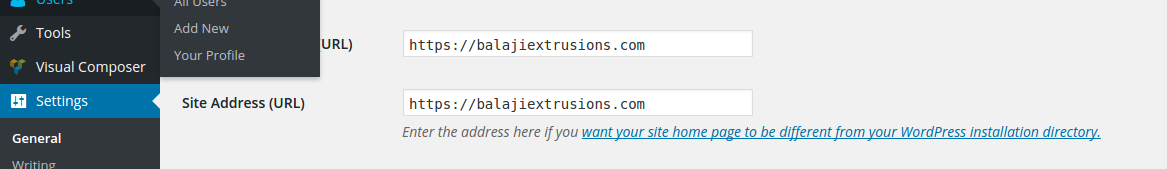
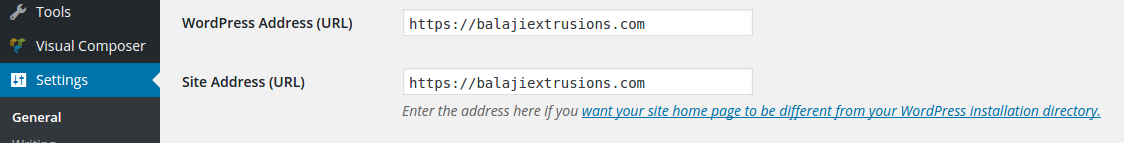
Typography, Image and Grammar changes for Wordpress https blog

diff --git a/_sass/typography.scss b/_sass/typography.scss
@@ -129,7 +129,7 @@ tt, code, kbd, samp, pre {
 p,
 li { 
 	code {
-		@include font-rem(16);
+		@include font-rem(14);
 		line-height: 1.5;
 		white-space: nowrap;
 		margin: 0 2px;
@@ -140,7 +140,7 @@ li {
 	}
 }
 pre {
-	@include font-rem(16);
+	@include font-rem(14);
 	line-height: 1.5;
 	overflow-x: auto;
 }

diff --git a/_posts/blog/2016-01-25-letsencrypt-gcloud-wordpress.md b/_posts/blog/2016-01-25-letsencrypt-gcloud-wordpress.md
@@ -14,6 +14,8 @@ All the paths below are based on assumption that you've used one-click-install G
  
 # Installation
 
+Login to your Compute instance using SSH
+
 Change to super user  
 `$ sudo su`
 
@@ -84,12 +86,12 @@ Add the lines from `DocumentRoot` until `</Directory>` at appropriate position
                     </Directory>
 
 
-# Redirect all http to https
+# Redirect all http links to https
 
 Open default-ssl.conf file  
 `sudo nano /etc/apache2/sites-available/default-ssl.conf`
 
-Add new VirtualHost tag as below, after existing VirtualHost tag and  
+Add new VirtualHost tag as below, after existing VirtualHost tag and before </IfModule> 
 
             </VirtualHost>
             <VirtualHost *:80>
@@ -100,13 +102,13 @@ Add new VirtualHost tag as below, after existing VirtualHost tag and
 
 # Wordpress configuration
 
-Ensure all Wordpress permalinks in follow https by changing URL in Wordpress Admin -> Settings -> General
+Ensure all Wordpress permalinks follow https by changing URL in Wordpress Admin -> Settings -> General
  
  <figure>
      <a href="/images/blog/https-wordpress-config.png"><img src="/images/blog/https-wordpress-config.png"></a>
  </figure>
  
- Note: Once URL is updated and apache is restarted then your wordpress admin URL will change from 104.99.99.99/wp-admin to balajiextrusions.com/wp-admin 
+ Note: Once URL is updated and apache is restarted, your wordpress admin URL will change from IP based (xxx.xx.xx.xx/wp-admin) to domain based (balajiextrusions.com/wp-admin) 
 
 # Restart apache
 
